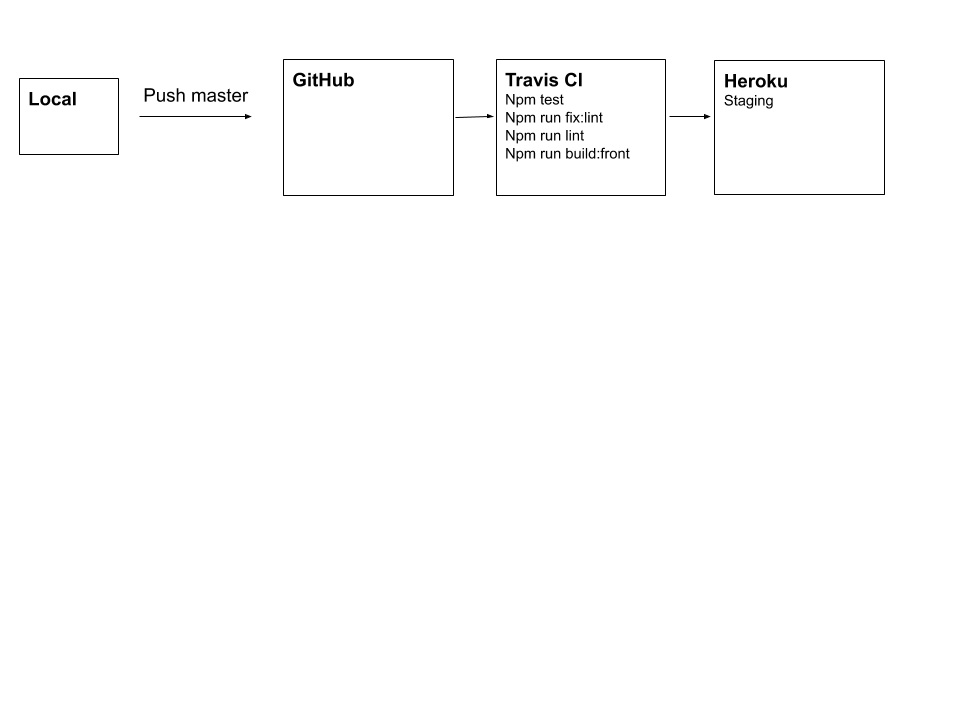
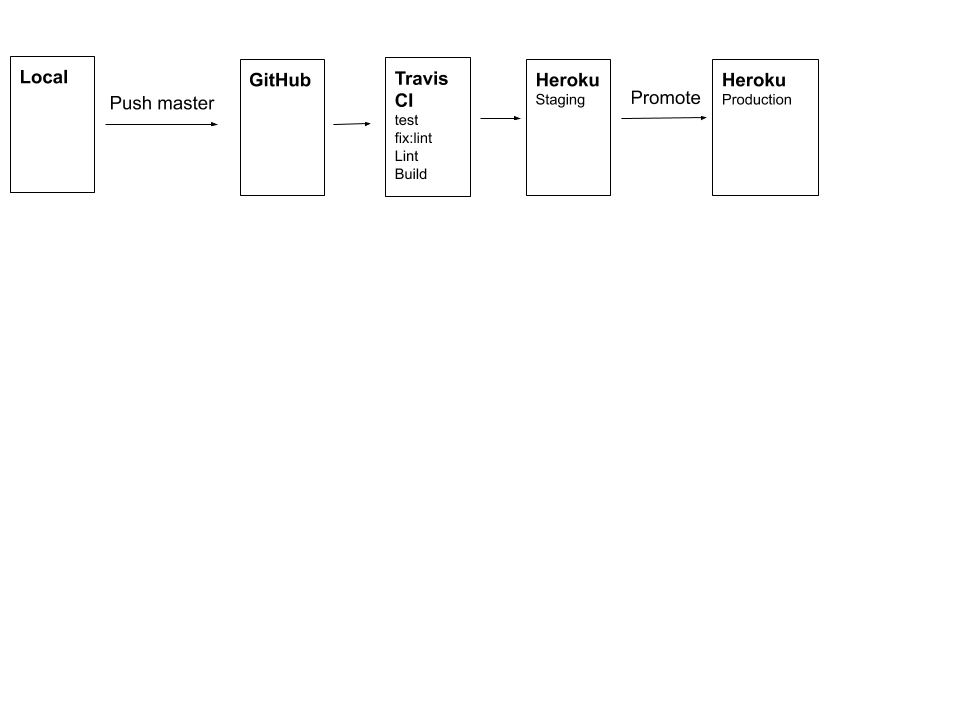
Updated CI flow chart

diff --git a/README.md b/README.md
@@ -30,7 +30,7 @@ You and your company actually earn real money and save time, plus productivity i
 - Production version is also running in Heroku, https://remotesocietynow.herokuapp.com/. 
 - Staging version can manually be promoted to production in Heroku dashboad.
 
-Local -> (push to master) -> Github -> Travis CI -> Heroku staging -> (promote) -> Heroku production
+![Local -> (push to master) -> Github -> Travis CI -> Heroku staging -> (promote) -> Heroku production](https://github.com/RemoteSocietyNow-ohtu/remotesocietynow/docs/CI-flow.png)
 
 ## Project material ##
 [Product backlog](https://docs.google.com/spreadsheets/d/1H6ewmum8H_-1ys8o97zC2eXteDIf6e95wRCZ0LieV_k/edit#gid=0)
